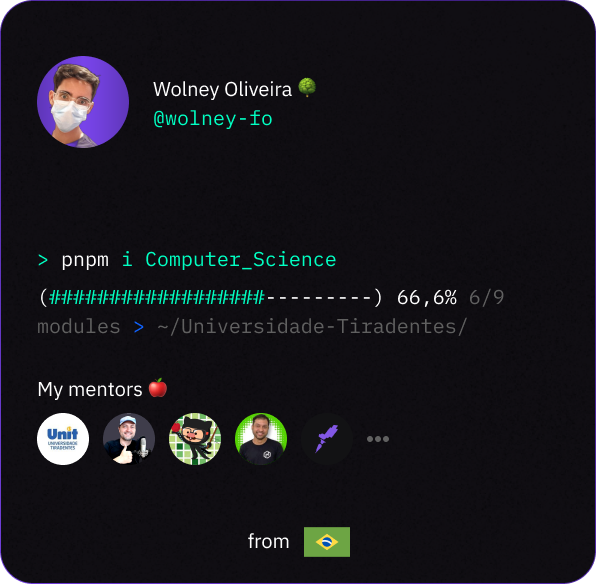
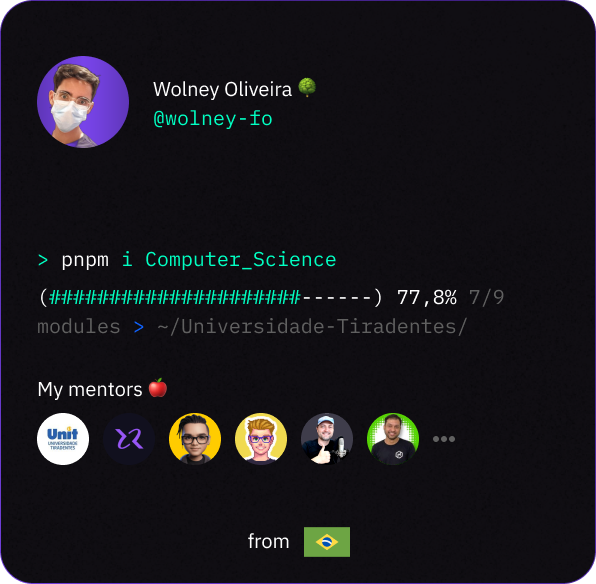
Update README.md 2024-1

diff --git a/README.md b/README.md
@@ -1,23 +1,21 @@
 <img align="right" height="500em" src="githubcard.png"/>
+<div align="left">
 <h1 align="left">Hi, I'm Wolney Oliveira</h1>
 
-- 🧐 Computer science student
+A computer science student (7/9) at [@Unit_br](https://www.instagram.com/unit_br/) passionate about tech and focused on Back-end development.
 
-- 🎓 Studying at [@Unit](https://www.instagram.com/unit_br/) (6/9)
+See more 👉 [bio.link/wolneyfo](https://bio.link/wolneyfo)
 
-- See more 👉 [bio.link/wolneyfo](https://bio.link/wolneyfo)
-
-- My focus for 2023/2:
+<h2>My focus for 2024/1:</h2>
+</div>
 
 <div style="display: inline_block"><br>
-  <img align="center" alt="Nodejs" height="25" width="35" src="https://cdn.jsdelivr.net/gh/devicons/devicon/icons/typescript/typescript-original.svg">
-  <img align="center" alt="Nodejs" height="25" width="35" src="https://cdn.jsdelivr.net/gh/devicons/devicon/icons/docker/docker-plain.svg">
-  <img align="center" alt="Nodejs" height="25" width="35" src="https://cdn.jsdelivr.net/gh/devicons/devicon/icons/react/react-original.svg">
-  <img align="center" alt="Nodejs" height="25" width="35" src="https://cdn.jsdelivr.net/gh/devicons/devicon/icons/python/python-original.svg">
-  <img align="center" alt="Nodejs" height="25" width="35" src="https://cdn.jsdelivr.net/gh/devicons/devicon/icons/javascript/javascript-original.svg">
+  <img align="center" alt="Typescript" height="25" width="35" src="https://cdn.jsdelivr.net/gh/devicons/devicon/icons/typescript/typescript-original.svg">
+  <img align="center" alt="Docker" height="25" width="35" src="https://cdn.jsdelivr.net/gh/devicons/devicon/icons/docker/docker-plain.svg">
+  <img align="center" alt="Rust" height="25" width="35" src="https://cdn.jsdelivr.net/gh/devicons/devicon@latest/icons/rust/rust-original.svg" />
+  <img align="center" alt="Javascript" height="25" width="35" src="https://cdn.jsdelivr.net/gh/devicons/devicon/icons/javascript/javascript-original.svg">
   <img align="center" alt="Nodejs" height="25" width="35" src="https://cdn.jsdelivr.net/gh/devicons/devicon/icons/nodejs/nodejs-original.svg">
 </div> <br><br>
-
 
 ─▄▀▀▀▀▀▀▀▀▀▀▀▀▀▀▀▀▀▀▄
 █░░░█░░░░░░░░░░▄▄░██░█
@@ -25,21 +23,20 @@
 █░░░▀░░░▄▄▄▄▄░░██░▀▀░█
 ─▀▄▄▄▄▄▀─────▀▄▄▄▄▄▄▀
 
-
 <br><br>
 
 ## Contact
 
-<p align="left" style="background:yellow">
-<a href="https://www.linkedin.com/in/wolney-oliveira/" target="_blank">
-  <img align="center" src="https://img.shields.io/badge/-Wolney_Oliveira-05122A?style=flat&logo=linkedin" alt="linkedin"/>
-</a>
+<div style="display: flex; gap: 4px">
+  <a href="https://www.linkedin.com/in/wolney-oliveira/" target="_blank">
+    <img align="center" src="https://img.shields.io/badge/-Wolney_Oliveira-05122A?style=flat&logo=linkedin" alt="LinkedIn"/>
+  </a>
 
-<a href="https://instagram.com/wolneyfo" target="_blank">
- <img align="center" src="https://img.shields.io/badge/-wolneyfo-05122A?style=flat&logo=instagram" alt="instagram"/>
-</a>
+  <a href="https://instagram.com/wolneyfo" target="_blank">
+  <img align="center" src="https://img.shields.io/badge/-wolneyfo-05122A?style=flat&logo=instagram" alt="Instagram"/>
+  </a>
 
-<a href="mailto:wolney.js@yahoo.com" target="_blank">
- <img align="center" src="https://img.shields.io/badge/-My_Email-05122A?style=flat&logo=gmail" alt="E-mail"/>
-</a>
-</p>
+  <a href="mailto:wolney.js@yahoo.com" target="_blank">
+  <img align="center" src="https://img.shields.io/badge/-My_Email-05122A?style=flat&logo=gmail" alt="E-mail"/>
+  </a>
+</div>
